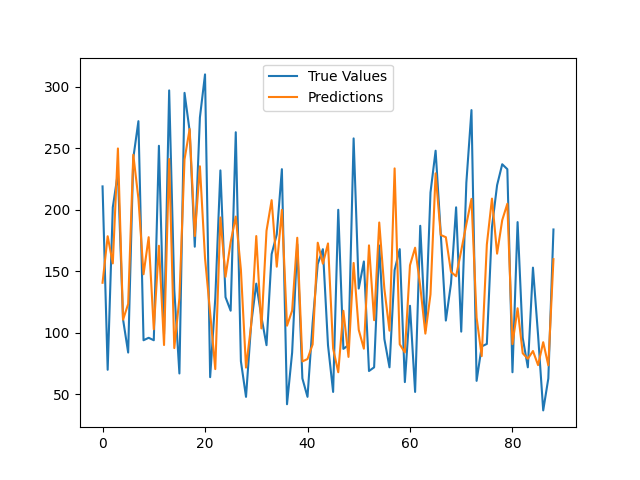
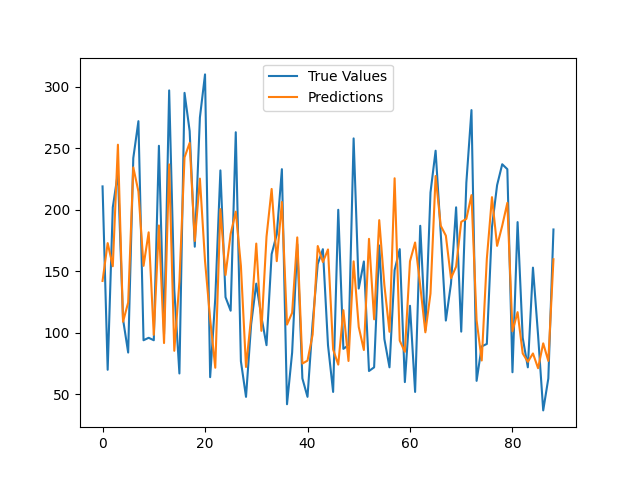
separated config and params

diff --git a/src/scripts/train.py b/src/scripts/train.py
@@ -5,9 +5,12 @@ from sklearn.ensemble import RandomForestRegressor
 from mlem.api import save
 from src.utils.logs import MyLogger
 
-def train_diabetes_model(config):
+def train_diabetes_model(config, params):
     with open(config, 'r') as f:
         config = yaml.safe_load(f)
+
+    with open(params, 'r') as f:
+        params = yaml.safe_load(f)
     logger = MyLogger(config['base']['log_file'])
 
     logger.info('Loading diabetes dataset')
@@ -18,7 +21,7 @@ def train_diabetes_model(config):
     y_train = y_train.values.ravel()
 
     logger.info('Training random forest model')
-    model = RandomForestRegressor(n_estimators=config['train']['n_estimators'], max_depth=config['train']['max_depth'], random_state=config['base']['random_state'])
+    model = RandomForestRegressor(n_estimators=params['train']['n_estimators'], max_depth=params['train']['max_depth'], random_state=config['base']['random_state'])
     
     model.fit(X_train, y_train)
 
@@ -28,5 +31,6 @@ def train_diabetes_model(config):
 if __name__ == '__main__':
     parser = argparse.ArgumentParser(description='Train random forest model on diabetes dataset')
     parser.add_argument('--config', type=str, help='path to YAML configuration file')
+    parser.add_argument('--params', type=str, help='path to YAML parameter file')
     args = parser.parse_args()
-    train_diabetes_model(args.config)
+    train_diabetes_model(args.config, args.params)
